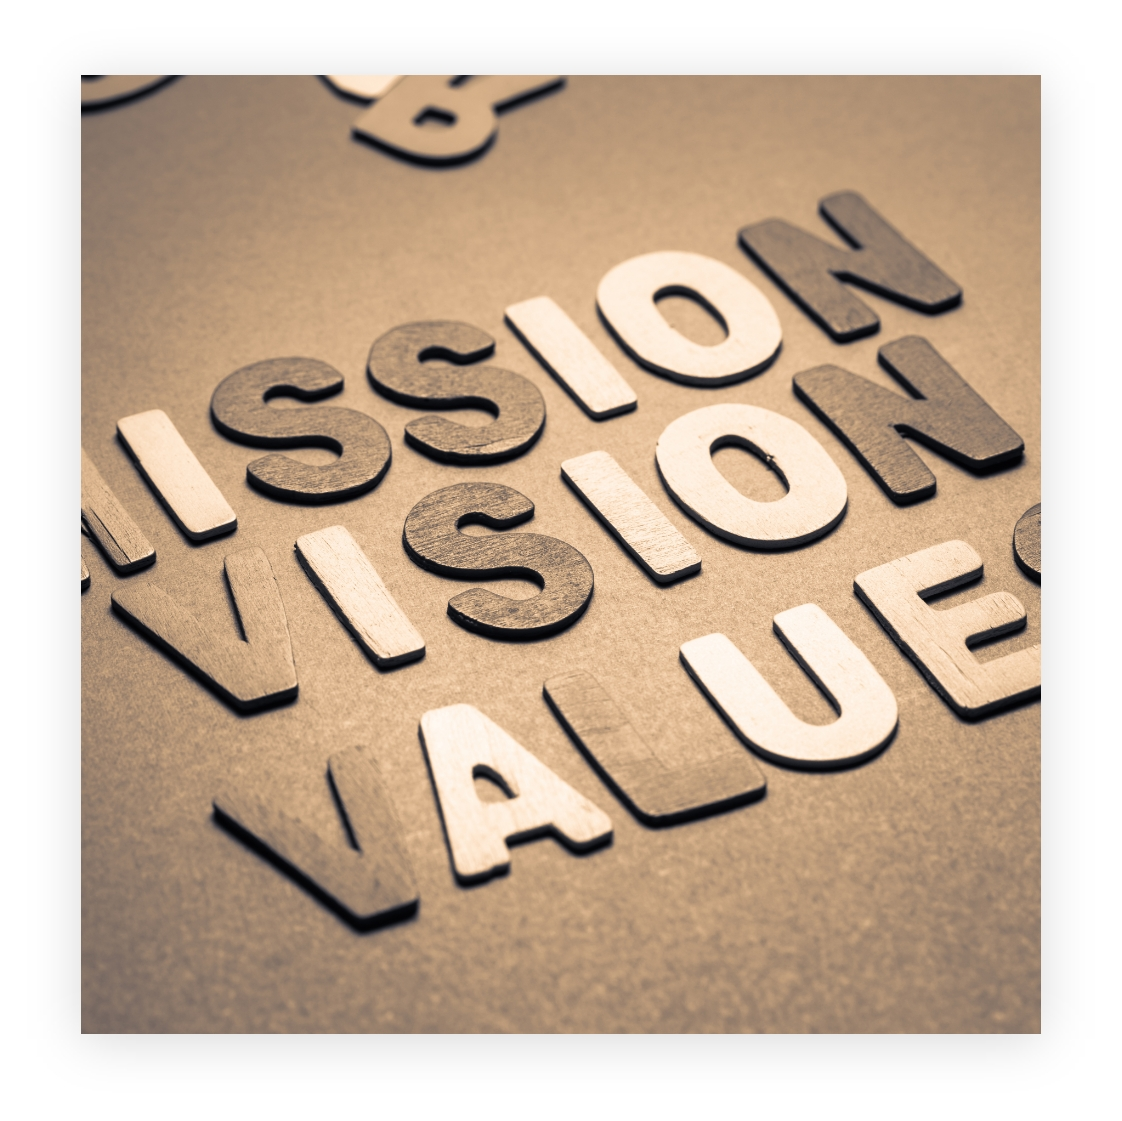
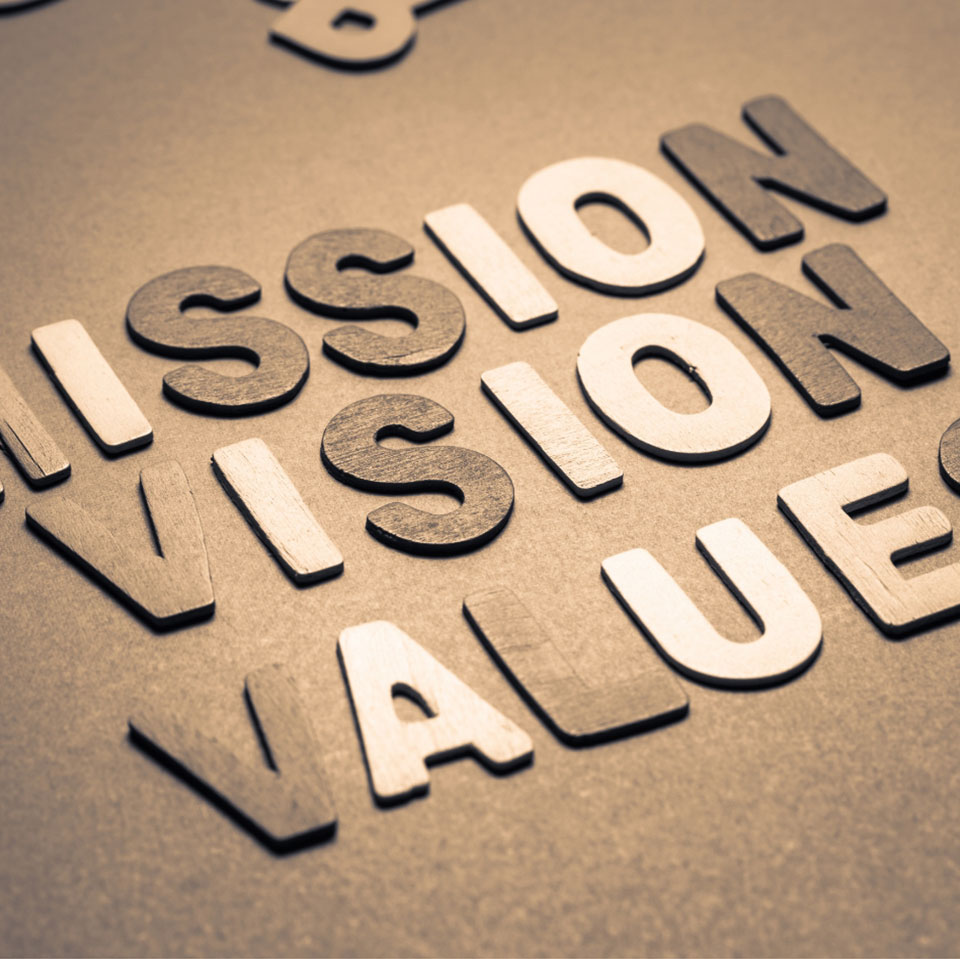
Created the Our Story page
1. Added the first tab for Our Story

diff --git a/src/app/views/ourstory/ourstory.component.html b/src/app/views/ourstory/ourstory.component.html
@@ -1,1 +1,147 @@
-<p>ourstory works!</p>
+<section class="ourStorySection d-flex">
+
+    <div class="half sidebarSection">
+        
+        <div class="sidebarContainer">
+
+                    <div class="overlay"></div>
+
+            <div class="sidebar">
+    
+                <nav>
+    
+                    <ul>
+    
+                        <li class="active">
+    
+                            <span></span>
+                            <a 
+                              href="#vision-mission-values"
+                              >
+                                Our Vision, Mission &amp; Values
+                            </a>
+                            
+                        </li>
+    
+                        <li>
+                            <span></span>
+                            <a href="">
+                                Our Origins
+                            </a>
+                        </li>
+    
+                        <li>
+                            <span></span>
+                            <a href="">
+                                Our Growth
+                            </a>
+                        </li>
+    
+                        <li>
+                            <span></span>
+                            <a href="">
+                                Our Pivot
+                            </a>
+                        </li>
+    
+                        <li>
+                            <span></span>
+                            <a href="">
+                                Our Brands
+                            </a>
+                        </li>
+    
+                    </ul>
+    
+                </nav>
+    
+            </div>
+
+            <img src="./assets/img/background-imgs/vision-mission-values.jpg" alt="">
+
+        </div>
+
+    </div>
+
+    <div class="half contentDescription">
+
+            <h3 class="text-green">
+                Our Vision
+            </h3>
+    
+            <p>
+                To be the partner of choice that enable consumers
+                and businesses across Africa access financial services 
+                through technology.
+            </p>
+    
+            <h3 class="text-green">
+                Our Mission
+            </h3>
+    
+            <p>
+                Our mission is to empower the lives of millions of
+                consumers and entrepreneurs across Africa through 
+                technology. We focus on creating solutions that lead 
+                to positive and sustainable economic impact, driven by 
+                our belief that financial inclusion is a right for all.
+            </p>
+
+            <h3 class="text-green">
+                Our Values
+            </h3>
+    
+            <h4 class="text-blue">
+                Customer Obsession
+            </h4>
+    
+            <p>
+                The interest of our customers is our priority. 
+                We develop solutions that make a positive impact 
+                in our customers' lives.
+            </p>
+    
+            <h4 class="text-blue">
+                Innovation
+            </h4>
+    
+            <p>
+                In order to adapt to new business conditions, 
+                we must think big, we must dive deep, we must be 
+                flexible, and we must be futuristic. 
+            </p>
+    
+            <h4 class="text-blue">
+                Passionate
+            </h4>
+    
+            <p>
+                The interest of our customers is our priority. 
+                We develop solutions that make a positive impact 
+                in our customers' lives.
+            </p>
+    
+            <h4 class="text-blue">
+                Team Work
+            </h4>
+    
+            <p>
+                The interest of our customers is our priority. 
+                We develop solutions that make a positive impact 
+                in our customers' lives.
+            </p>
+    
+            <h4 class="text-blue">
+                Result Oriented
+            </h4>
+    
+            <p>
+                We hire and develop the best to uphold the 
+                highest standards of integrity and honesty in
+                delivering on our commitments. 
+            </p>
+    
+
+    </div>
+
+</section>

diff --git a/src/assets/css/main.scss b/src/assets/css/main.scss
@@ -980,18 +980,105 @@ form {
 
 }
 
+//OUR STORY 
+.ourStorySection{
+
+  .sidebarSection {
+
+    position: relative;
+
+    .sidebar {
+      position: absolute;
+      min-height: 100vh;
+      width: 70%;
+      left: 5%;
+      top: 20%;
+  
+      nav {
+  
+        ul {
+  
+          li {
+            margin: 20px 15px;
+  
+            span {
+              display: inline-block;
+              width: 20px;
+              height: 20px;
+              background: url('../img/icons/white-ellipse.png') center center no-repeat;
+            }
+  
+            a {
+              font-size: 20px;
+              font-family: 'museo_sans_rounded900';
+              color: #fff;
+            }
+  
+          }
+  
+  
+          .active {
+  
+            a {
+              color: $primaryColor;
+              font-size: 25px;
+            }
+  
+            span {
+              display: inline-block;
+              width: 20px;
+              height: 20px;
+              background: url('../img/icons/active-ellipse.png') center center no-repeat;
+            }
+  
+          }
+  
+  
+        }
+  
+      }
+    }
+
+    .sidebarContainer{
+      position: fixed;
+      width: 45%;
+      top: 14%;
+      height: 100%;
+    }
+
+  }
+
+  .contentDescription{
+
+    h3 {
+      font-size: 35px;
+      margin-bottom: 0px;
+    }
+
+    h4{
+      font-size: 25px;
+      margin-bottom: 0px;
+    }
+
+    p {
+      line-height: 1.5;
+    }
+
+  }
+  
+}
+
+
+
+
+
+
 //FOOTER SECTION
 .mainFooter {
 
+  position: relative;
   background-color: $darkGrey2;
   padding: 20px 40px;
-
-  // .logoSection {
-
-  //   img {
-  //     filter: grayscale(1);
-  //   }
-  // }
 
   .footerMenuLinks {
 

diff --git a/src/assets/css/main.css b/src/assets/css/main.css
@@ -730,7 +730,60 @@ form .formFooter .greenBtn a .ctaIcon {
   top: 10%;
 }
 
+.ourStorySection .sidebarSection {
+  position: relative;
+}
+.ourStorySection .sidebarSection .sidebar {
+  position: absolute;
+  min-height: 100vh;
+  width: 70%;
+  left: 5%;
+  top: 20%;
+}
+.ourStorySection .sidebarSection .sidebar nav ul li {
+  margin: 20px 15px;
+}
+.ourStorySection .sidebarSection .sidebar nav ul li span {
+  display: inline-block;
+  width: 20px;
+  height: 20px;
+  background: url("../img/icons/white-ellipse.png") center center no-repeat;
+}
+.ourStorySection .sidebarSection .sidebar nav ul li a {
+  font-size: 20px;
+  font-family: "museo_sans_rounded900";
+  color: #fff;
+}
+.ourStorySection .sidebarSection .sidebar nav ul .active a {
+  color: #9BCB53;
+  font-size: 25px;
+}
+.ourStorySection .sidebarSection .sidebar nav ul .active span {
+  display: inline-block;
+  width: 20px;
+  height: 20px;
+  background: url("../img/icons/active-ellipse.png") center center no-repeat;
+}
+.ourStorySection .sidebarSection .sidebarContainer {
+  position: fixed;
+  width: 45%;
+  top: 14%;
+  height: 100%;
+}
+.ourStorySection .contentDescription h3 {
+  font-size: 35px;
+  margin-bottom: 0px;
+}
+.ourStorySection .contentDescription h4 {
+  font-size: 25px;
+  margin-bottom: 0px;
+}
+.ourStorySection .contentDescription p {
+  line-height: 1.5;
+}
+
 .mainFooter {
+  position: relative;
   background-color: #404040;
   padding: 20px 40px;
 }

diff --git a/src/app/shared/shared.module.ts b/src/app/shared/shared.module.ts
@@ -38,7 +38,7 @@ import {
   } from '@fortawesome/free-solid-svg-icons';
 import { FontAwesomeModule } from "@fortawesome/angular-fontawesome";
 
-import { MatRadioModule } from '@angular/material/radio';
+//import { MatRadioModule } from '@angular/material/radio';
 
   @NgModule({
       declarations: [
@@ -57,8 +57,7 @@ import { MatRadioModule } from '@angular/material/radio';
       imports: [
         RouterModule,
         FormsModule,
-        FontAwesomeModule,
-        MatRadioModule
+        FontAwesomeModule
       ],
 
       exports: [
@@ -71,8 +70,7 @@ import { MatRadioModule } from '@angular/material/radio';
         BannersliderComponent,
         SinglesolutionitemComponent,
         SolutionsbannerComponent,
-        ServicesprovidedComponent,
-        MatRadioModule
+        ServicesprovidedComponent
       ],
   })
 

diff --git a/src/app/views/contactus/contactus.component.html b/src/app/views/contactus/contactus.component.html
@@ -14,7 +14,7 @@
     </p>
 
     <div class="solutionsSection">
-
+<!-- 
         <mat-radio-group class="d-flex solutions">
 
             <mat-radio-button class="singleSolution">
@@ -59,7 +59,7 @@
 
 
         </mat-radio-group>
-          
+           -->
 
     </div>
 
